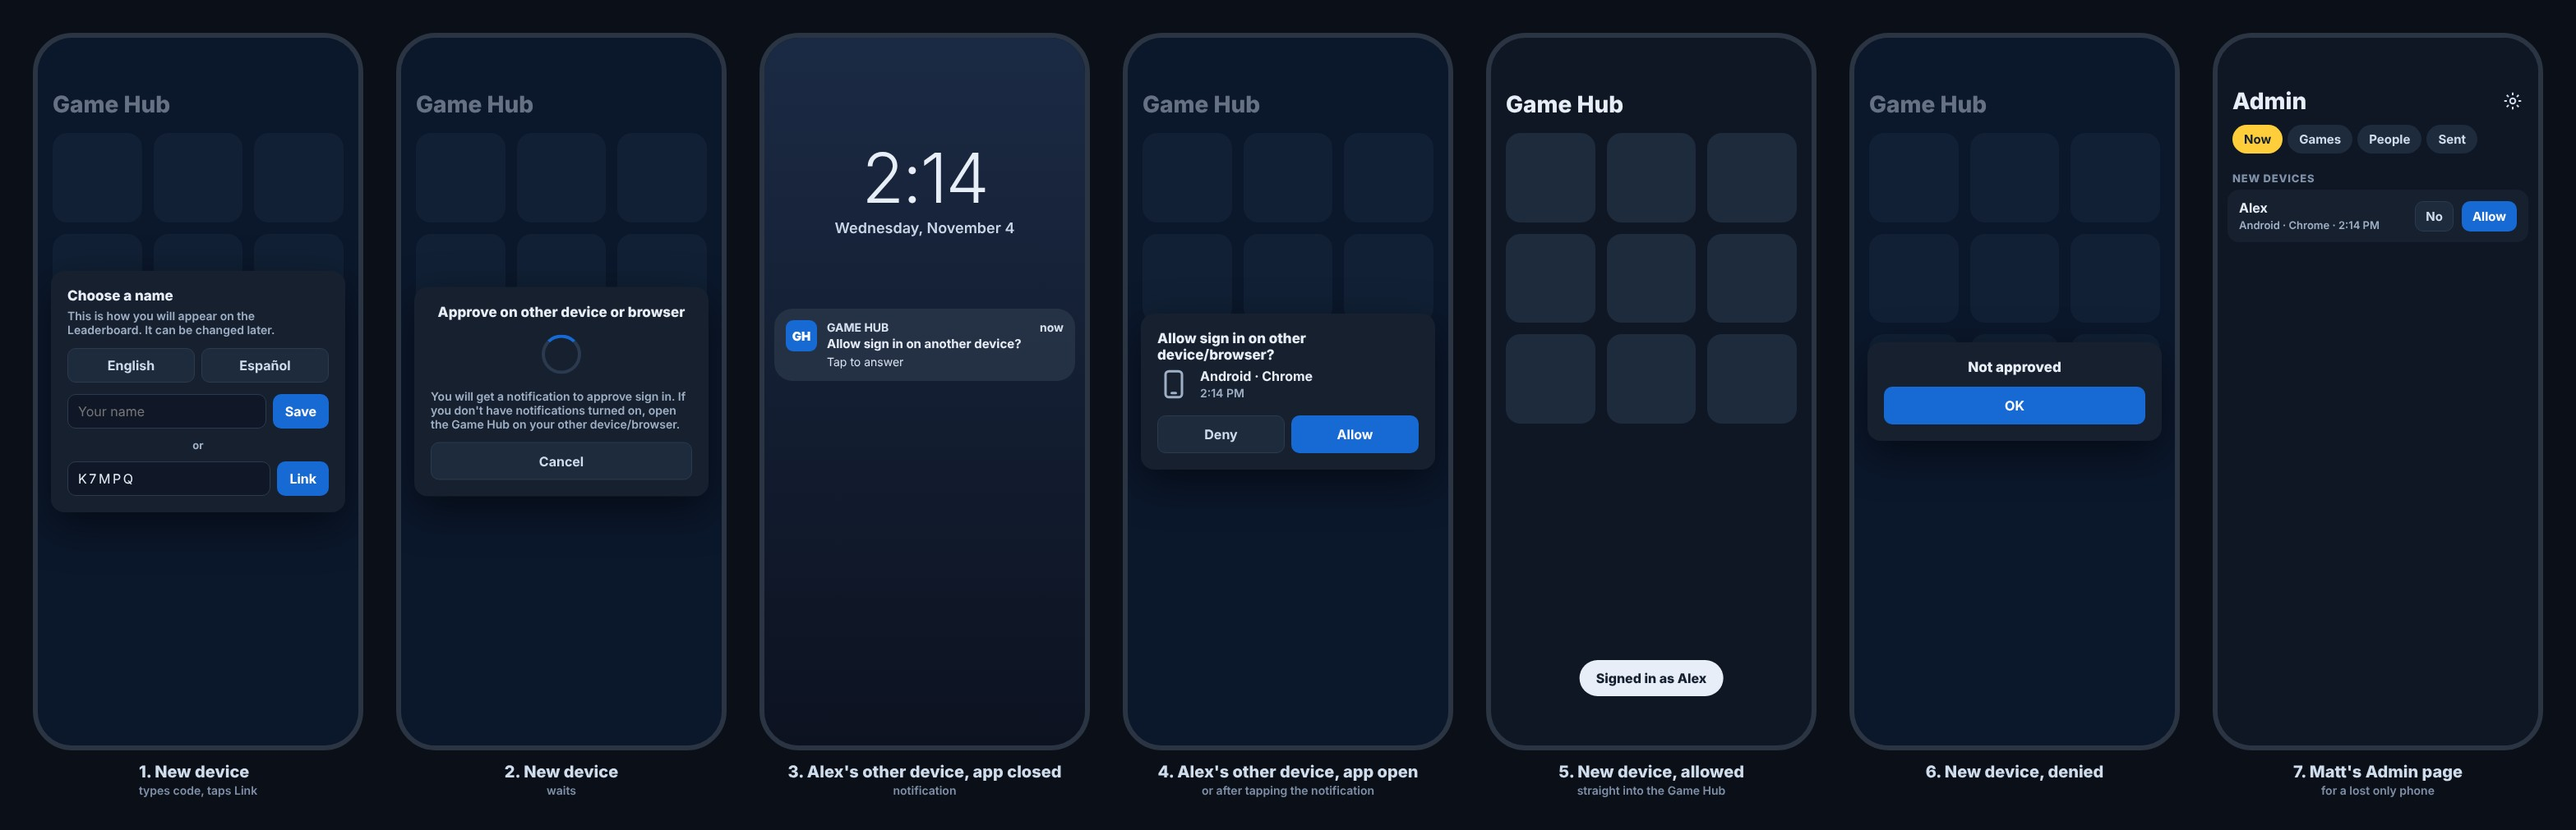
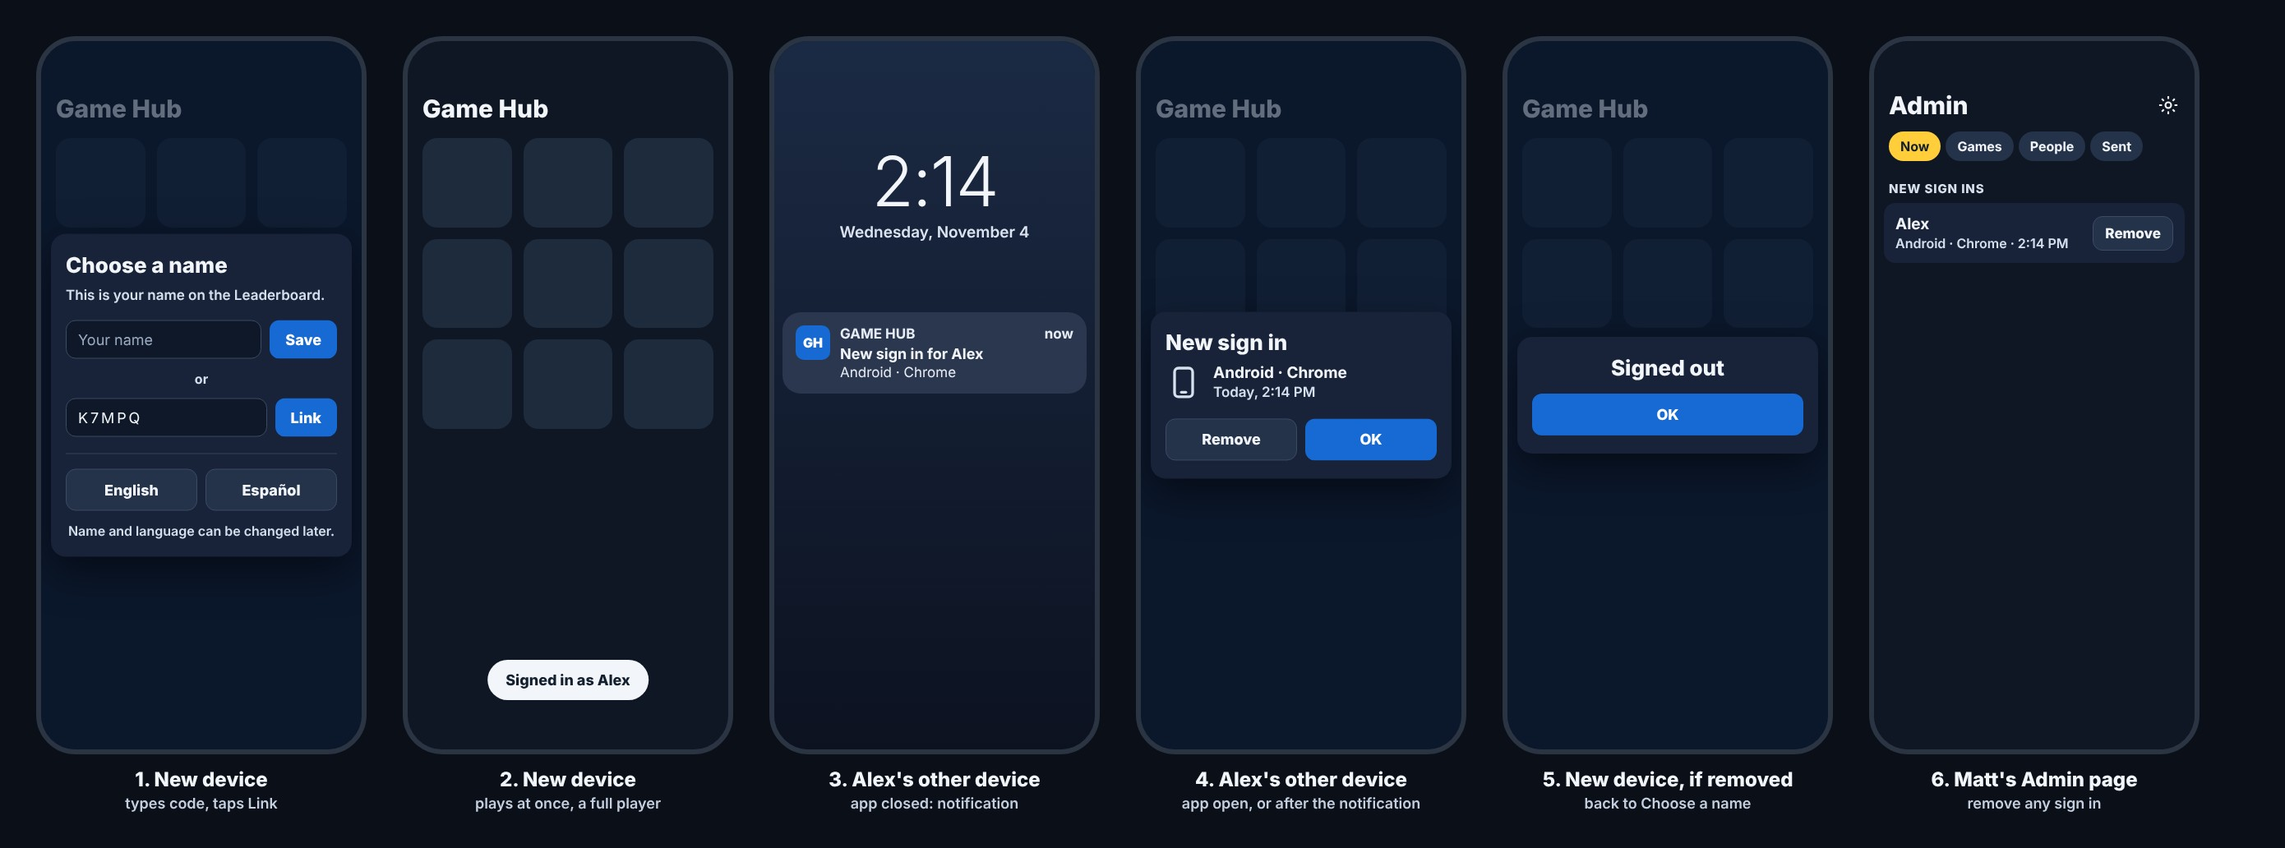
Mockup v3: new device signs in at once, other devices can remove it; readable-text rule
Claude-Session: https://claude.ai/code/session_01BGm65bjiGkTk3FaydHPZjU

Changed region(s): [[0.0, 0.0307, 0.9899, 0.9812]]

diff --git a/docs/mockups/new-phone-approval.html b/docs/mockups/new-phone-approval.html
@@ -3,58 +3,60 @@
 <head>
 <meta charset="utf-8">
 <meta name="viewport" content="width=device-width, initial-scale=1">
-<title>New phone approval</title>
+<title>New device sign in</title>
 <style>
-body{margin:0;background:#0a0f18;font-family:system-ui,-apple-system,"Segoe UI",Roboto,sans-serif;color:#e8eef7}
-.wrap{display:flex;gap:40px;padding:40px;align-items:flex-start;width:max-content}
-.col{display:flex;flex-direction:column;gap:14px;align-items:center}
-.cap{font-size:20px;font-weight:800;color:#cfdcec}
-.cap small{display:block;font-size:14px;font-weight:600;color:#7f90a8;text-align:center;margin-top:2px}
+body{margin:0;background:#0a0f18;font-family:system-ui,-apple-system,"Segoe UI",Roboto,sans-serif;color:#f2f6fb}
+.wrap{display:flex;gap:44px;padding:44px;align-items:flex-start;width:max-content}
+.col{display:flex;flex-direction:column;gap:16px;align-items:center}
+.cap{font-size:24px;font-weight:800;color:#f2f6fb;text-align:center}
+.cap small{display:block;font-size:18px;font-weight:600;color:#c4d0e0;margin-top:4px}
 .phone{position:relative;width:402px;height:874px;border-radius:48px;overflow:hidden;border:6px solid #2a3442;box-sizing:border-box;background:#0f1724}
 .launch{position:absolute;inset:0;padding:64px 18px 0}
-.lt{font-size:28px;font-weight:800;margin:0 0 18px}
+.lt{font-size:30px;font-weight:800;margin:0 0 18px}
 .grid{display:grid;grid-template-columns:repeat(3,minmax(0,1fr));gap:14px}
 .tile{aspect-ratio:1;border-radius:18px;background:#1e2b3d}
-.scrim{position:absolute;inset:0;background:rgba(9,24,48,.58)}
-.card{position:absolute;left:16px;right:16px;top:50%;transform:translateY(-50%);padding:20px;background:#16202f;color:#e8eef7;border-radius:16px;box-shadow:0 16px 50px rgba(0,0,0,.5)}
-.h{margin:0 0 6px;font-size:17px;font-weight:800}
-.lead{margin:0 0 14px;font-size:14px;font-weight:600;color:#9fb0c6}
-.row{display:flex;gap:8px;align-items:center}
-.in{flex:1 1 auto;min-width:0;padding:10px 12px;font:inherit;font-size:16px;color:#e8eef7;background:#101828;border:1px solid #2b3a4f;border-radius:10px}
-.btn{flex:0 0 auto;padding:10px 14px;font:inherit;font-weight:700;font-size:16px;border:1px solid transparent;border-radius:10px}
+.scrim{position:absolute;inset:0;background:rgba(9,24,48,.62)}
+.card{position:absolute;left:12px;right:12px;top:50%;transform:translateY(-50%);padding:22px 18px;background:#18233a;color:#f2f6fb;border-radius:18px;box-shadow:0 16px 50px rgba(0,0,0,.5)}
+.h{margin:0 0 10px;font-size:26px;font-weight:800;line-height:1.2}
+.lead{margin:0 0 18px;font-size:17px;font-weight:600;line-height:1.4;color:#d6e0ee}
+.row{display:flex;gap:10px;align-items:center}
+.in{flex:1 1 auto;min-width:0;padding:12px 14px;font:inherit;font-size:18px;color:#f2f6fb;background:#0f1828;border:1px solid #3a4b63;border-radius:12px}
+.in::placeholder{color:#9aabc2}
+.btn{flex:0 0 auto;padding:12px 18px;font:inherit;font-weight:800;font-size:18px;border:1px solid transparent;border-radius:12px}
 .pri{background:#1769d4;color:#fff}
-.gh{background:#1e2b3d;color:#cfdcec;border-color:#2b3a4f}
-.or{text-align:center;color:#9fb0c6;font-size:13px;font-weight:700;margin:12px 0}
-.wide .btn{flex:1 1 0;padding:12px 14px}
-.spin{width:40px;height:40px;margin:18px auto;border-radius:50%;border:4px solid #2b3a4f;border-top-color:#1769d4}
-.dev{display:flex;gap:12px;align-items:center;margin:4px 0 18px}
+.gh{background:#24324a;color:#f2f6fb;border-color:#3a4b63}
+.or{text-align:center;color:#d6e0ee;font-size:16px;font-weight:700;margin:14px 0}
+.wide .btn{flex:1 1 0;padding:14px 18px}
+.rule{height:1px;background:#33445c;margin:20px 0 18px}
+.note2{margin:14px 0 0;text-align:center;font-size:16px;font-weight:600;color:#d6e0ee}
+.dev{display:flex;gap:14px;align-items:center;margin:6px 0 22px}
 .dev svg{flex:0 0 auto}
-.dev b{display:block;font-size:16px}
-.dev span{font-size:14px;font-weight:600;color:#9fb0c6}
+.dev b{display:block;font-size:19px}
+.dev span{display:block;font-size:17px;font-weight:600;color:#d6e0ee;margin-top:2px}
 .lock{position:absolute;inset:0;background:linear-gradient(#1b2a44,#0c1220);text-align:center}
 .clock{margin-top:120px;font-size:84px;font-weight:300;letter-spacing:-2px}
-.date{font-size:18px;font-weight:600;color:#c9d6e8}
-.note{position:absolute;left:12px;right:12px;top:330px;display:flex;gap:12px;padding:14px;border-radius:22px;background:rgba(40,52,72,.86);text-align:left}
-.ico{width:38px;height:38px;border-radius:9px;background:#1769d4;flex:0 0 auto;display:flex;align-items:center;justify-content:center;font-weight:900;font-size:15px;color:#fff}
+.date{font-size:19px;font-weight:600;color:#dbe4f0}
+.note{position:absolute;left:10px;right:10px;top:330px;display:flex;gap:12px;padding:16px;border-radius:22px;background:rgba(44,58,80,.92);text-align:left}
+.ico{width:42px;height:42px;border-radius:10px;background:#1769d4;flex:0 0 auto;display:flex;align-items:center;justify-content:center;font-weight:900;font-size:16px;color:#fff}
 .nt{flex:1;min-width:0}
-.nt .top{display:flex;justify-content:space-between;font-size:13px;font-weight:700;color:#aebbd0}
-.nt b{display:block;font-size:15px;margin:2px 0}
-.nt span{font-size:14px;color:#d7e1ef}
+.nt .top{display:flex;justify-content:space-between;font-size:15px;font-weight:700;color:#d6e0ee}
+.nt b{display:block;font-size:18px;margin:4px 0 2px}
+.nt span{font-size:17px;color:#e6edf6}
 .admin{position:absolute;inset:0;padding:60px 0 0;background:#0f1724}
-.ahd{display:flex;align-items:center;justify-content:space-between;padding:0 18px 12px}
-.ahd h2{margin:0;font-size:28px;font-weight:800}
-.tabs{display:flex;gap:6px;padding:0 18px 16px}
-.tab{padding:8px 14px;border-radius:999px;font-weight:700;font-size:15px;background:#1e2b3d;color:#cfdcec}
+.ahd{display:flex;align-items:center;justify-content:space-between;padding:0 18px 14px}
+.ahd h2{margin:0;font-size:30px;font-weight:800}
+.tabs{display:flex;gap:6px;padding:0 18px 18px}
+.tab{padding:8px 14px;border-radius:999px;font-weight:700;font-size:16px;background:#24324a;color:#f2f6fb}
 .tab.on{background:#ffce3a;color:#14202f}
-.sec{padding:6px 18px;font-size:13px;font-weight:800;color:#7f90a8;text-transform:uppercase;letter-spacing:.06em}
-.list{margin:0 12px;border-radius:14px;background:#16202f}
-.r{display:flex;align-items:center;gap:10px;padding:12px 14px;border-top:1px solid #243246}
+.sec{padding:6px 18px 8px;font-size:15px;font-weight:800;color:#d6e0ee;text-transform:uppercase;letter-spacing:.06em}
+.list{margin:0 12px;border-radius:14px;background:#18233a}
+.r{display:flex;align-items:center;gap:10px;padding:14px;border-top:1px solid #2c3b52}
 .r:first-child{border-top:0}
 .r .t{flex:1;min-width:0}
-.r .t b{display:block;font-size:16px}
-.r .t span{font-size:13px;font-weight:600;color:#9fb0c6}
-.sm{padding:8px 12px;font-size:15px}
-.toast{position:absolute;left:50%;bottom:60px;transform:translateX(-50%);padding:12px 20px;border-radius:999px;background:#e8eef7;color:#14202f;font-weight:800;font-size:16px;white-space:nowrap}
+.r .t b{display:block;font-size:19px}
+.r .t span{display:block;font-size:16px;font-weight:600;color:#d6e0ee;margin-top:2px}
+.sm{padding:10px 14px;font-size:17px}
+.toast{position:absolute;left:50%;bottom:60px;transform:translateX(-50%);padding:14px 22px;border-radius:999px;background:#f2f6fb;color:#14202f;font-weight:800;font-size:18px;white-space:nowrap}
 </style>
 </head>
 <body>
@@ -67,11 +69,13 @@ body{margin:0;background:#0a0f18;font-family:system-ui,-apple-system,"Segoe UI",
       <div class="scrim"></div>
       <div class="card">
         <h2 class="h">Choose a name</h2>
-        <p class="lead">This is how you will appear on the Leaderboard. It can be changed later.</p>
-        <div class="row" style="margin-bottom:14px"><button class="btn gh" style="flex:1">English</button><button class="btn gh" style="flex:1">Español</button></div>
+        <p class="lead">This is your name on the Leaderboard.</p>
         <div class="row"><input class="in" placeholder="Your name" aria-label="Your name"><button class="btn pri">Save</button></div>
         <div class="or">or</div>
         <div class="row"><input class="in" value="K7MPQ" aria-label="Code" style="letter-spacing:.16em"><button class="btn pri">Link</button></div>
+        <div class="rule"></div>
+        <div class="row wide"><button class="btn gh">English</button><button class="btn gh">Español</button></div>
+        <p class="note2">Name and language can be changed later.</p>
       </div>
     </div>
     <div class="cap">1. New device<small>types code, taps Link</small></div>
@@ -81,15 +85,9 @@ body{margin:0;background:#0a0f18;font-family:system-ui,-apple-system,"Segoe UI",
   <div class="col">
     <div class="phone">
       <div class="launch"><p class="lt">Game Hub</p><div class="grid"><div class="tile"></div><div class="tile"></div><div class="tile"></div><div class="tile"></div><div class="tile"></div><div class="tile"></div><div class="tile"></div><div class="tile"></div><div class="tile"></div></div></div>
-      <div class="scrim"></div>
-      <div class="card" style="text-align:center">
-        <h2 class="h">Approve on other device or browser</h2>
-        <div class="spin" role="img" aria-label="Waiting"></div>
-        <p class="lead" style="text-align:left;margin:0 0 14px">You will get a notification to approve sign in. If you don't have notifications turned on, open the Game Hub on your other device/browser.</p>
-        <div class="row wide"><button class="btn gh">Cancel</button></div>
-      </div>
+      <div class="toast">Signed in as Alex</div>
     </div>
-    <div class="cap">2. New device<small>waits</small></div>
+    <div class="cap">2. New device<small>plays at once, a full player</small></div>
   </div>
 
   <!-- 3 -->
@@ -100,11 +98,11 @@ body{margin:0;background:#0a0f18;font-family:system-ui,-apple-system,"Segoe UI",
         <div class="date">Wednesday, November 4</div>
         <div class="note">
           <div class="ico">GH</div>
-          <div class="nt"><div class="top"><span>GAME HUB</span><span>now</span></div><b>Allow sign in on another device?</b><span>Tap to answer</span></div>
+          <div class="nt"><div class="top"><span>GAME HUB</span><span>now</span></div><b>New sign in for Alex</b><span>Android · Chrome</span></div>
         </div>
       </div>
     </div>
-    <div class="cap">3. Alex's other device, app closed<small>notification</small></div>
+    <div class="cap">3. Alex's other device<small>app closed: notification</small></div>
   </div>
 
   <!-- 4 -->
@@ -113,52 +111,43 @@ body{margin:0;background:#0a0f18;font-family:system-ui,-apple-system,"Segoe UI",
       <div class="launch"><p class="lt">Game Hub</p><div class="grid"><div class="tile"></div><div class="tile"></div><div class="tile"></div><div class="tile"></div><div class="tile"></div><div class="tile"></div><div class="tile"></div><div class="tile"></div><div class="tile"></div></div></div>
       <div class="scrim"></div>
       <div class="card">
-        <h2 class="h">Allow sign in on other device/browser?</h2>
+        <h2 class="h">New sign in</h2>
         <div class="dev">
-          <svg width="40" height="40" viewBox="0 0 24 24" fill="none" stroke="#9fb0c6" stroke-width="1.8" stroke-linecap="round" aria-hidden="true"><rect x="6" y="2.5" width="12" height="19" rx="2.5"/><path d="M10.5 18.5h3"/></svg>
-          <div><b>Android · Chrome</b><span>2:14 PM</span></div>
+          <svg width="44" height="44" viewBox="0 0 24 24" fill="none" stroke="#d6e0ee" stroke-width="1.8" stroke-linecap="round" aria-hidden="true"><rect x="6" y="2.5" width="12" height="19" rx="2.5"/><path d="M10.5 18.5h3"/></svg>
+          <div><b>Android · Chrome</b><span>Today, 2:14 PM</span></div>
         </div>
-        <div class="row wide"><button class="btn gh">Deny</button><button class="btn pri">Allow</button></div>
+        <div class="row wide"><button class="btn gh">Remove</button><button class="btn pri">OK</button></div>
       </div>
     </div>
-    <div class="cap">4. Alex's other device, app open<small>or after tapping the notification</small></div>
+    <div class="cap">4. Alex's other device<small>app open, or after the notification</small></div>
   </div>
 
   <!-- 5 -->
   <div class="col">
     <div class="phone">
       <div class="launch"><p class="lt">Game Hub</p><div class="grid"><div class="tile"></div><div class="tile"></div><div class="tile"></div><div class="tile"></div><div class="tile"></div><div class="tile"></div><div class="tile"></div><div class="tile"></div><div class="tile"></div></div></div>
-      <div class="toast">Signed in as Alex</div>
+      <div class="scrim"></div>
+      <div class="card" style="text-align:center">
+        <h2 class="h">Signed out</h2>
+        <div class="row wide" style="margin-top:16px"><button class="btn pri">OK</button></div>
+      </div>
     </div>
-    <div class="cap">5. New device, allowed<small>straight into the Game Hub</small></div>
+    <div class="cap">5. New device, if removed<small>back to Choose a name</small></div>
   </div>
 
   <!-- 6 -->
   <div class="col">
     <div class="phone">
-      <div class="launch"><p class="lt">Game Hub</p><div class="grid"><div class="tile"></div><div class="tile"></div><div class="tile"></div><div class="tile"></div><div class="tile"></div><div class="tile"></div><div class="tile"></div><div class="tile"></div><div class="tile"></div></div></div>
-      <div class="scrim"></div>
-      <div class="card" style="text-align:center">
-        <h2 class="h">Not approved</h2>
-        <div class="row wide" style="margin-top:14px"><button class="btn pri">OK</button></div>
-      </div>
-    </div>
-    <div class="cap">6. New device, denied<small>&nbsp;</small></div>
-  </div>
-
-  <!-- 7 -->
-  <div class="col">
-    <div class="phone">
       <div class="admin">
-        <div class="ahd"><h2>Admin</h2><svg width="26" height="26" viewBox="0 0 24 24" fill="none" stroke="#cfdcec" stroke-width="1.8" aria-hidden="true"><circle cx="12" cy="12" r="3"/><path d="M12 2.5v3M12 18.5v3M2.5 12h3M18.5 12h3M5.3 5.3l2.1 2.1M16.6 16.6l2.1 2.1M5.3 18.7l2.1-2.1M16.6 7.4l2.1-2.1"/></svg></div>
+        <div class="ahd"><h2>Admin</h2><svg width="28" height="28" viewBox="0 0 24 24" fill="none" stroke="#f2f6fb" stroke-width="1.8" aria-hidden="true"><circle cx="12" cy="12" r="3"/><path d="M12 2.5v3M12 18.5v3M2.5 12h3M18.5 12h3M5.3 5.3l2.1 2.1M16.6 16.6l2.1 2.1M5.3 18.7l2.1-2.1M16.6 7.4l2.1-2.1"/></svg></div>
         <div class="tabs"><span class="tab on">Now</span><span class="tab">Games</span><span class="tab">People</span><span class="tab">Sent</span></div>
-        <div class="sec">New devices</div>
+        <div class="sec">New sign ins</div>
         <div class="list">
-          <div class="r"><div class="t"><b>Alex</b><span>Android · Chrome · 2:14 PM</span></div><button class="btn gh sm">No</button><button class="btn pri sm">Allow</button></div>
+          <div class="r"><div class="t"><b>Alex</b><span>Android · Chrome · 2:14 PM</span></div><button class="btn gh sm">Remove</button></div>
         </div>
       </div>
     </div>
-    <div class="cap">7. Matt's Admin page<small>for a lost only phone</small></div>
+    <div class="cap">6. Matt's Admin page<small>remove any sign in</small></div>
   </div>
 
 </div>

diff --git a/docs/SECURITY-DEVICE-KEYS.md b/docs/SECURITY-DEVICE-KEYS.md
@@ -24,6 +24,12 @@ No PIN. The new phone asks; the player's other phones get a popup (app open) or 
 Matt can Allow from Admin > Now (a lost only phone). Mockup: `docs/mockups/new-phone-approval.html` (NOT approved yet).
 The PIN items below are replaced by this once Matt approves the mockup.
 
+## Design change 2 (2026-11-04, Matt: "Let them play. Make them a full player. idk why i'd every not approve someone. bu i could remove them after the fact")
+A new device that links with a code plays at once as a full player. The player's other devices get a notification /
+popup "New sign in" with Remove / OK; Matt can Remove from Admin > Now. Remove signs that device out (its local data
+stays on it, nothing deleted). Limit, said plainly: the code alone gets someone in again; this only tells the owner and
+lets them remove it after. Mockup v3: `docs/mockups/new-phone-approval.html` (NOT approved yet).
+
 ## Step B (NOT built; player-visible, needs Matt's "ship it")
 1. Server: t `pin` (6 digits, 10 min, 5 tries), t `fresh` (a brand-new unused code: no `codeKeys`, no
    `directory/`, no `players` record with it), `pinMake` (claimed phone or admin makes a PIN), admin any.

diff --git a/CLAUDE.md b/CLAUDE.md
@@ -170,6 +170,12 @@ worth N points" footnotes, no explanatory sentences. Names, numbers and one acti
 Explanations belong in How to play, nowhere else. Before showing Matt any screen, delete every word
 you can and look again. Worked example: `gridlock/js/ui.js` `_homeHTML`.
 
+## Text big, bright, and never split badly (Matt, 2026-11-04: "Stop making me give you this comment")
+
+Every screen and mockup: body text at least 17px, secondary at least 15px, light text near white on dark (never a
+dim grey like `#9fb0c6`), titles at least 24px, real spacing between lines. No line may wrap one key word onto its own
+row ("Leaderboard" alone on line 2): measure it and fit it. Check both before showing Matt anything.
+
 ## Send the Claude.ai handoff files WITHOUT being asked
 
 Matt reviews work in a second Claude.ai chat that cannot open artifact URLs. Whenever a turn
